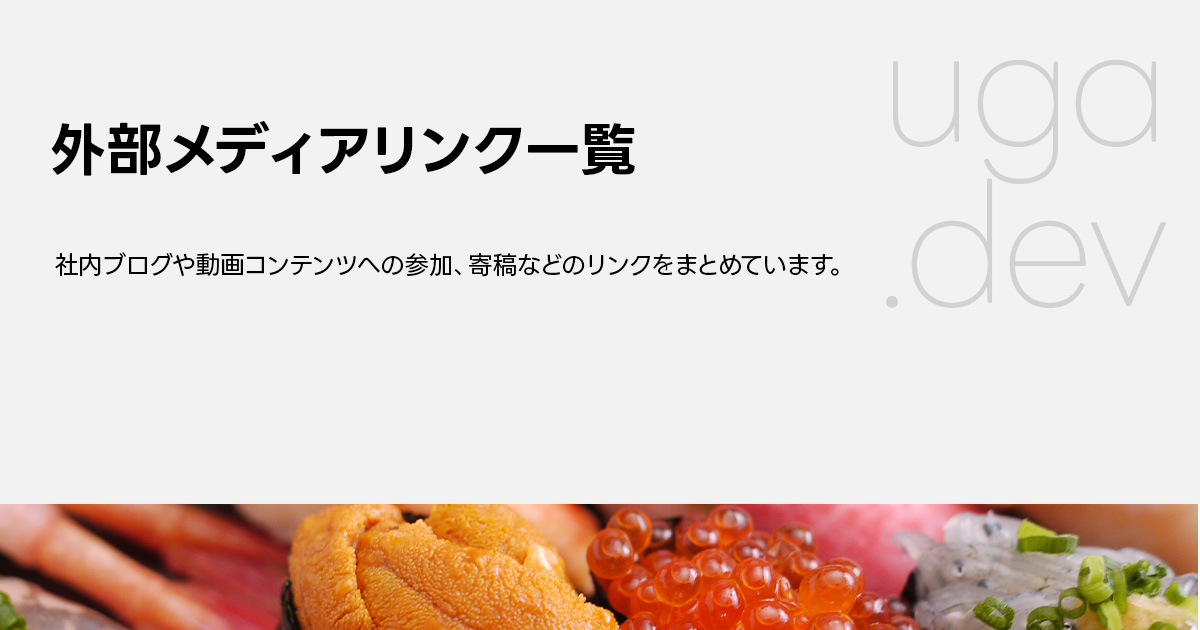
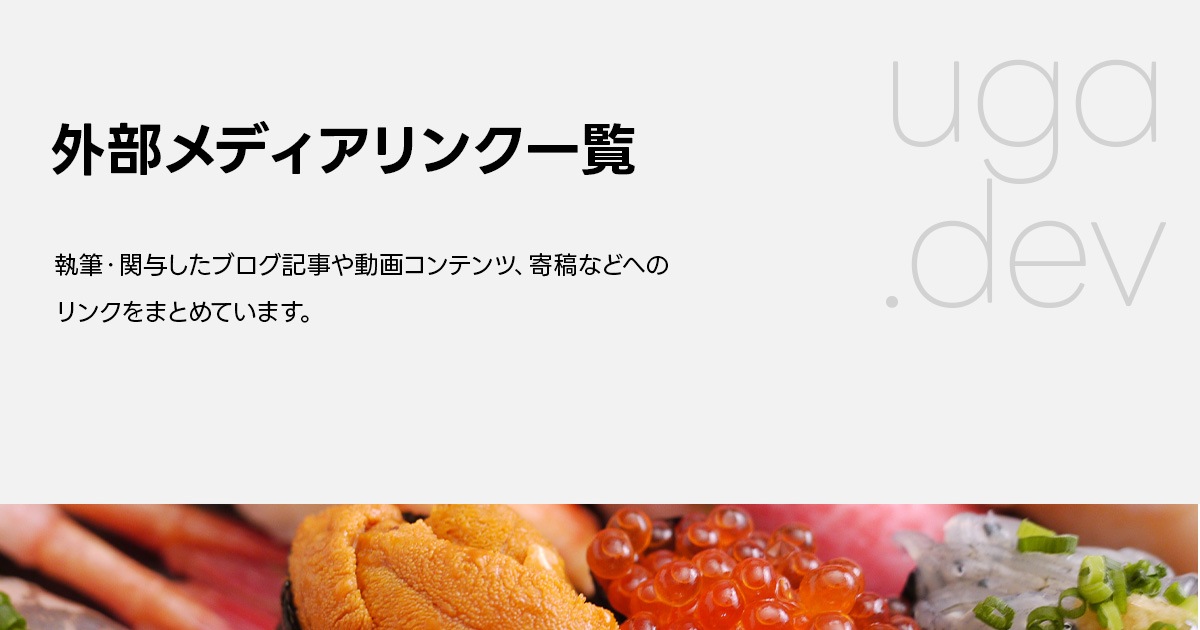
Update document/media

Changed region(s): [[0.0308, 0.3921, 0.7092, 0.4524], [0.0308, 0.4825, 0.2467, 0.5127]]

diff --git a/src/app/(ja)/page.tsx b/src/app/(ja)/page.tsx
@@ -176,7 +176,9 @@ export default function Home() {
 
         <div className="px-[var(--content-padding-inline)]">
           <div className="mx-auto max-w-content">
-            <h2 className="mb-4 text-xl font-bold sm:text-2xl">Media</h2>
+            <h2 className="mb-2 text-xl font-bold sm:text-2xl">Media</h2>
+
+            <p className="mb-4">{getMetadata('/documents/media').description}</p>
 
             <table className="mb-2">
               <tbody>
@@ -200,7 +202,7 @@ export default function Home() {
             </table>
 
             <p className="mb-12 text-right sm:mb-28">
-              <Button href="/documents/media/">Media一覧を見る</Button>
+              <Button href="/documents/media/">外部メディアリンク一覧を見る</Button>
             </p>
 
             <h2 className="mb-2 text-xl font-bold sm:text-2xl">Bookmarks</h2>

diff --git a/src/data/externalMediaLinkList.ts b/src/data/externalMediaLinkList.ts
@@ -13,6 +13,14 @@ const list: {
   tags?: Tags;
 }[] = [
   {
+    type: 'article',
+    category: 'WebDev',
+    date: '2025-05-28',
+    title: 'Web標準のキャッチアップ - GW中に行った技術キャッチアップや個人開発を発表するLT会を開催しました！',
+    href: 'https://techblog.lycorp.co.jp/ja/20250528b#:~:text=1.-,Web%E6%A8%99%E6%BA%96%E3%81%AE%E3%82%AD%E3%83%A3%E3%83%83%E3%83%81%E3%82%A2%E3%83%83%E3%83%97,-Uga%20Hiroya%20(A11y',
+    tags: ['HTML', 'CSS', 'Accessibility'],
+  },
+  {
     type: 'magazine',
     category: 'WebDev',
     date: '2025-05-16',

diff --git a/src/constants/seo.ts b/src/constants/seo.ts
@@ -279,8 +279,8 @@ export const SEO: Record<string, { title: string; description: string }> = {
   // ['web-speech-api', false],
   // ['youtubeHTML5embed', false],
   '/documents/media': {
-    title: 'Media',
-    description: '社内ブログや動画コンテンツへの参加、寄稿などのリンクをまとめています。',
+    title: '外部メディアリンク一覧',
+    description: '執筆・関与したブログ記事や動画コンテンツ、寄稿などへのリンクをまとめています。',
   },
   '/documents/fantasized-specs': {
     title: 'Fantasized specs',
